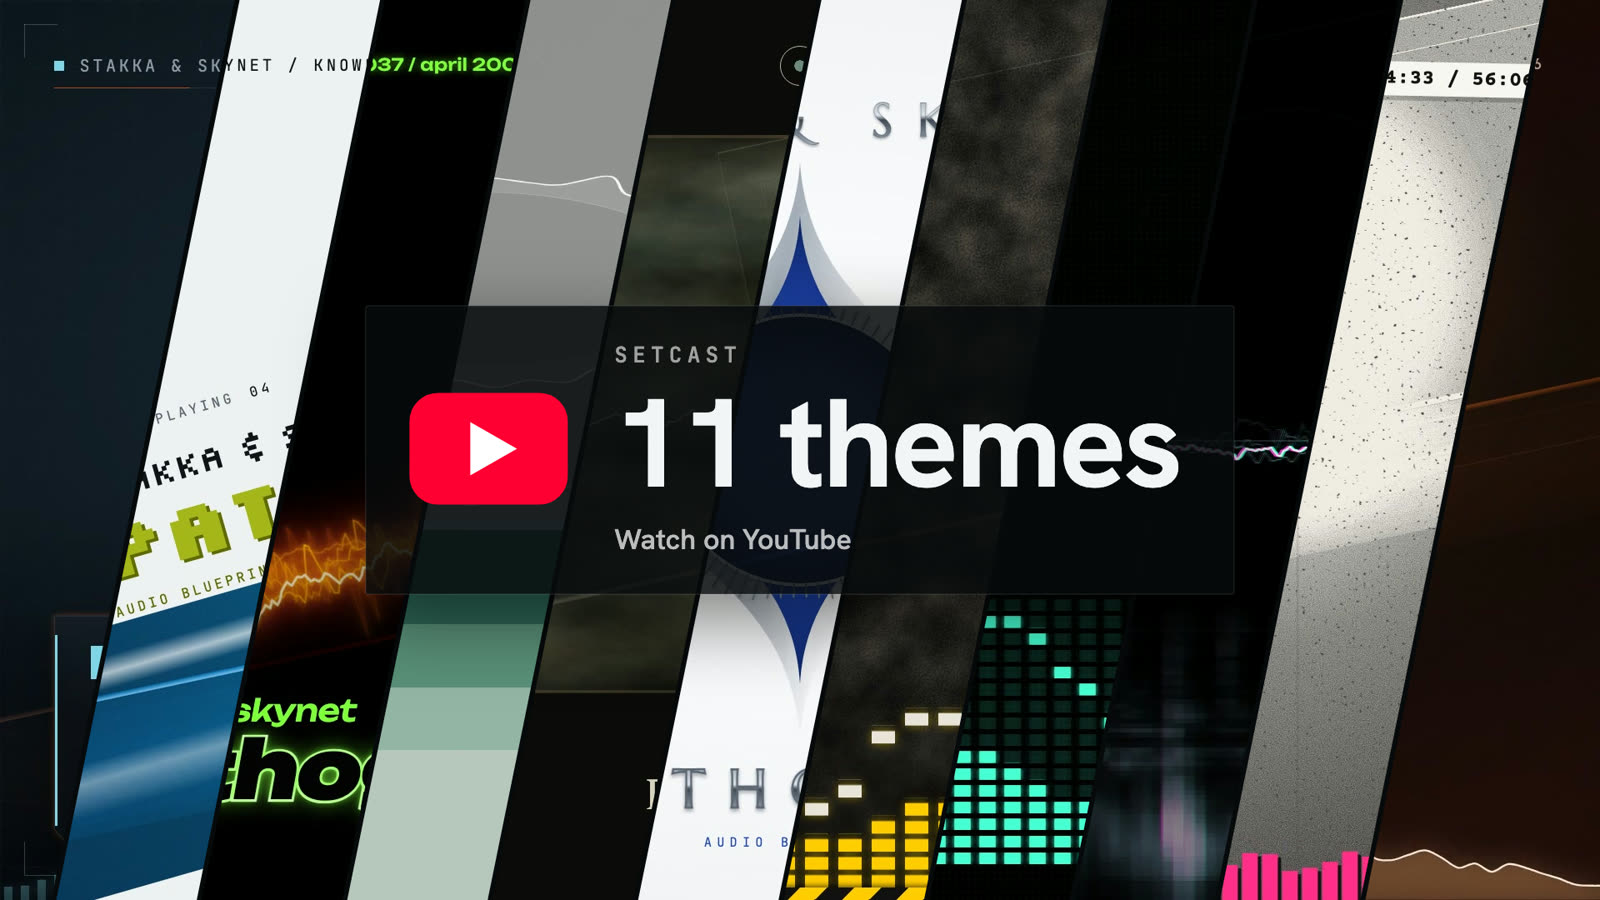
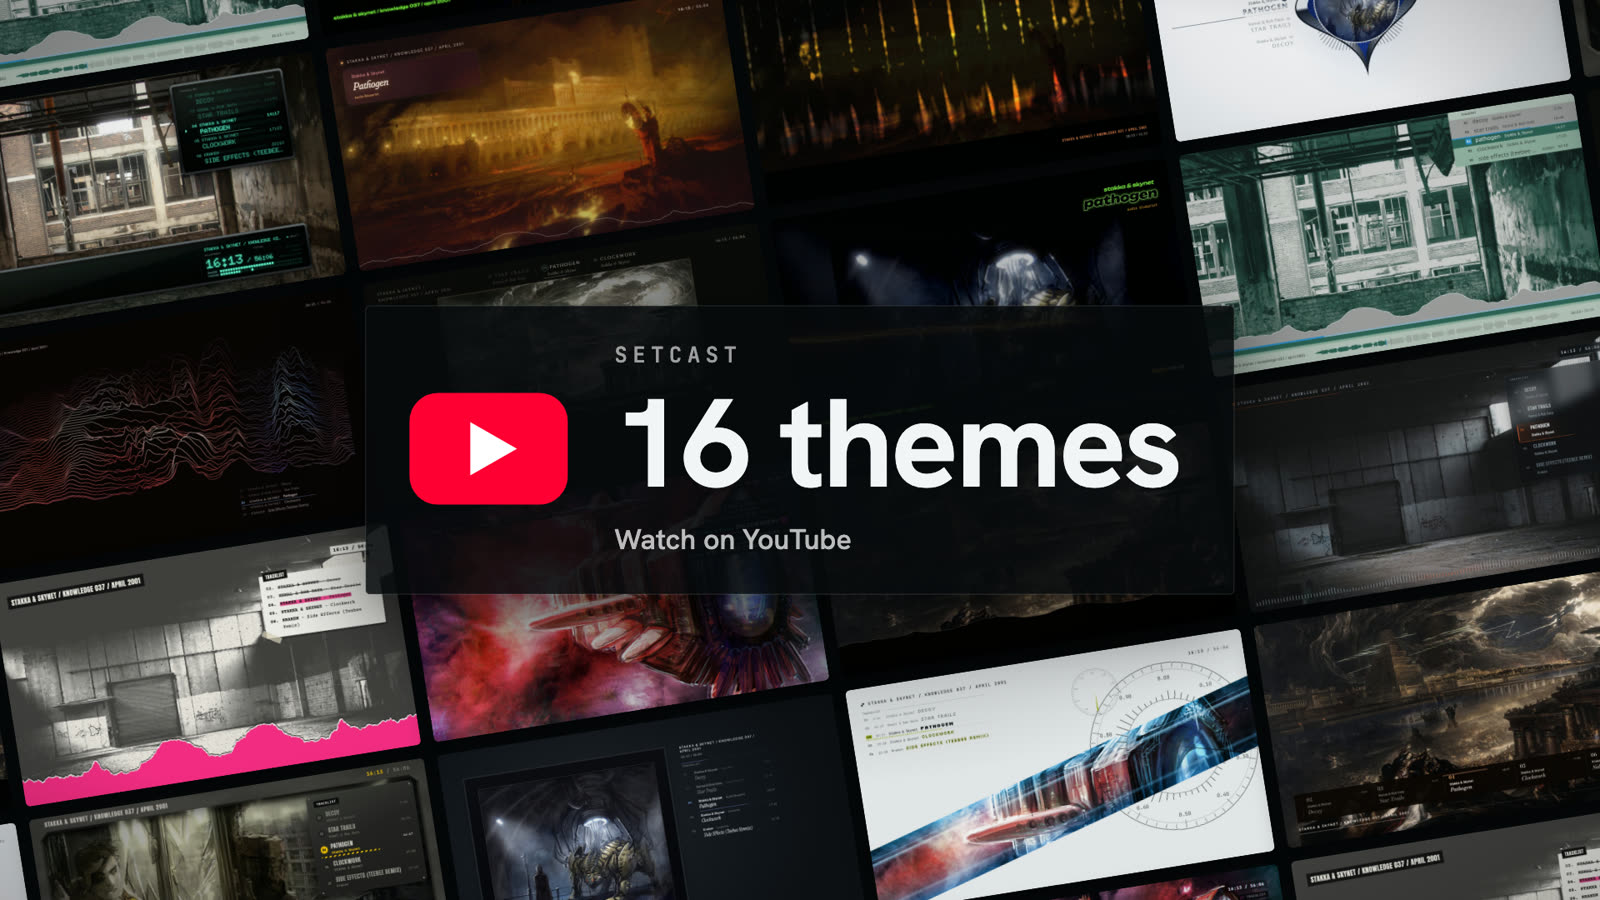
Link the 16-theme showcase video in the README

diff --git a/README.md b/README.md
@@ -19,9 +19,9 @@ change anything on screen, and you never need JavaScript. The default look is da
 sci-fi, made for neurofunk, techstep and jungle; the other themes range from a photocopied rave
 flyer to the fluorescent display of a 90s CD deck.
 
-[![One DJ set shown in each of Setcast's 11 built-in themes. Click to watch the video on YouTube.](docs/assets/setcast-themes-video.jpg)](https://www.youtube.com/watch?v=-emCbgmZilo)
+[![One DJ set shown in each of Setcast's 16 built-in themes. Click to watch the video on YouTube.](docs/assets/setcast-themes-video.jpg)](https://youtu.be/Sm0AdiVEKpo)
 
-▶ [Watch one set in all 11 themes on YouTube](https://www.youtube.com/watch?v=-emCbgmZilo) (5:31)
+▶ [Watch one set in all 16 themes on YouTube](https://youtu.be/Sm0AdiVEKpo) (5:31)
 
 ## What you get
 
